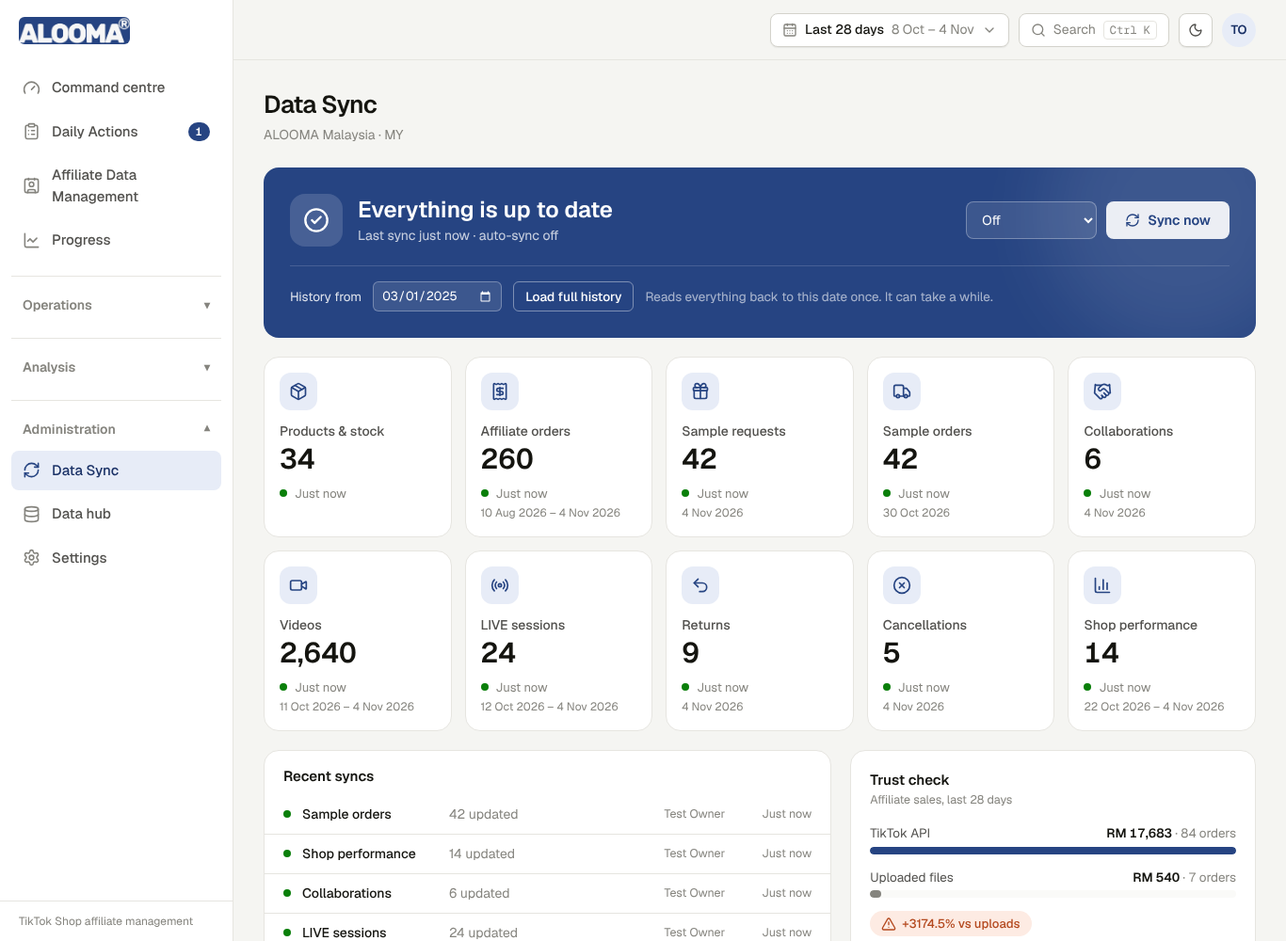
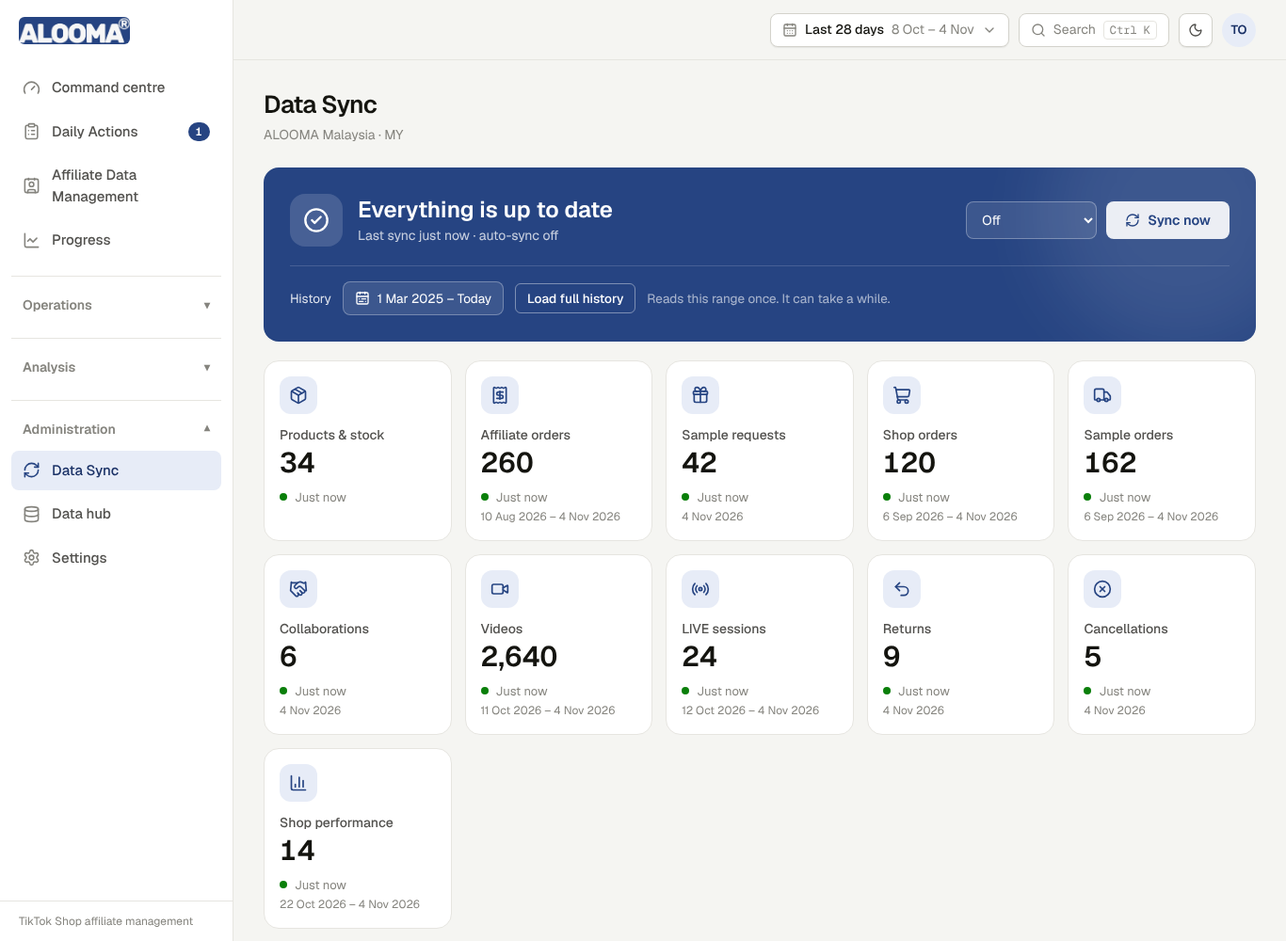
Data Sync: date-range picker for history (quick choices, From/To), finds TikTok's exact history edge, shop orders dataset, full warning notes
Claude-Session: https://claude.ai/code/session_01L6SQd9S1HK5RVe12JHKehy

diff --git a/scripts/test-sync.ts b/scripts/test-sync.ts
@@ -46,6 +46,11 @@ async function main() {
       const at = tok ? Number(tok) : 0;
       return body({ orders: all.slice(at, at + 2), next_page_token: at + 2 < all.length ? String(at + 2) : undefined });
     }
+    if (p === "/order/202309/orders/search") {
+      let all = [0, 2, 40, 75].map((age, i) => ({ id: "SO" + i, status: "COMPLETED", is_sample_order: false, create_time: now - age * 86400, update_time: now, delivery_time: now - age * 86400 + 86400, payment: { total_amount: "55.50", currency: "MYR" }, tracking_number: "T" + i, shipping_provider: "J&T", buyer_email: "secret@example.com", recipient_address: { full_address: "SECRET ROAD" }, line_items: [{ sku_id: "SKU1", product_id: "P1", seller_sku: "S-1", display_status: "COMPLETED", sale_price: "55.50", product_name: "SECRET NAME" }] }));
+      if (reqBody.create_time_ge !== undefined) all = all.filter((o) => o.create_time >= reqBody.create_time_ge && o.create_time < reqBody.create_time_lt);
+      return body({ orders: all });
+    }
     if (p === "/order/202309/orders" && (u.searchParams.get("ids") ?? "").includes("BAD")) return j({ code: 36009003, message: "Internal error. Please try again." });
     if (p === "/order/202309/orders") { const ids = (u.searchParams.get("ids") ?? "").split(","); return body({ orders: ids.map((id) => ({ id, status: id === "O9" ? "DELIVERED" : "COMPLETED", is_sample_order: true, create_time: now - 86400 * 5, update_time: now, delivery_time: now - 86400, paid_time: now - 86400 * 5, tracking_number: "TRK" + id, shipping_provider: "J&T", payment: { total_amount: "0.00", currency: "MYR" }, line_items: [{ sku_id: "SKU1", product_id: "P1", seller_sku: "S-1", display_status: "DELIVERED", package_status: "DELIVERED", tracking_number: "TRK" + id, product_name: "SECRET NAME LEAK" }], buyer_email: "secret@example.com", recipient_address: { full_address: "SECRET ROAD 1" } })) }); }
     if (p.includes("/open_collaborations/search")) return body({ open_collaborations: [{ id: "OC1", status: "ONGOING", content_creator_count: 12, showcase_creator_count: 5, require_seller_approve_creator: false, current_commission: { rate: "1500", start_time: now - 86400, end_time: now + 86400 * 30 }, product: { id: "P1", title: "Pillow", inventory: 40, original_price: { minimum_amount: "20", maximum_amount: "35", currency: "MYR" } } }] });
@@ -68,7 +73,7 @@ async function main() {
 
   // ── run every dataset ──
   const res = await runAll("manual", null, deps);
-  check("03 all ten datasets run and succeed (a rate-limit refusal and a page-size refusal are handled on the way)", res.length === 10 && res.every((r) => r.status === "ok"), JSON.stringify(res.map((r) => [r.dataset, r.status, r.error])));
+  check("03 all eleven datasets run and succeed (a rate-limit refusal and a page-size refusal are handled on the way)", res.length === 11 && res.every((r) => r.status === "ok"), JSON.stringify(res.map((r) => [r.dataset, r.status, r.error])));
   check("04 products and stock: the stock of every warehouse is added up", Number((await q(sql`select stock from tt_skus where sku_id = 'SKU1'`))[0].stock) === 12 && Number((await q(sql`select price from tt_skus where sku_id = 'SKU1'`))[0].price) === 25.5);
   check("05 affiliate orders: the first sync reads the whole history in date windows (7 orders found, across pages and windows), with creator, content and commission", (await count("tt_affiliate_order_lines")) === 7 && (await q(sql`select creator, content_id, est_commission, paid_commission from tt_affiliate_order_lines where order_id = 'A1'`))[0].creator === "amy");
   check("06 sample requests keep creator stats, the order link and the expiry", (await q(sql`select followers, fulfilment_pct, order_id, expires_at is not null as e from tt_sample_requests where id = 'SR1'`))[0].order_id === "O9");
@@ -99,7 +104,7 @@ async function main() {
 
   // ── overview, schedule, trust ──
   const ov = await syncOverview();
-  check("17 the overview lists all datasets with record counts, recent runs with who and how, and the next scheduled time", ov.datasets.length === 10 && ov.datasets.find((d) => d.key === "affiliate_orders")!.records === 7 && ov.runs.length > 8 && ov.runs[0].trigger === "manual" && ov.nextAt !== null, JSON.stringify({ n: ov.runs.length, rec: ov.datasets.find((d) => d.key === "affiliate_orders")!.records, t: ov.runs[0]?.trigger, next: ov.nextAt, set: ov.settings }));
+  check("17 the overview lists all datasets with record counts, recent runs with who and how, and the next scheduled time", ov.datasets.length === 11 && ov.datasets.find((d) => d.key === "affiliate_orders")!.records === 7 && ov.runs.length > 8 && ov.runs[0].trigger === "manual" && ov.nextAt !== null, JSON.stringify({ n: ov.runs.length, rec: ov.datasets.find((d) => d.key === "affiliate_orders")!.records, t: ov.runs[0]?.trigger, next: ov.nextAt, set: ov.settings }));
   const s = { enabled: true, everyMinutes: 60 };
   check("18 the schedule is due when never run or the interval has passed, and never when switched off", isDue(1e12, null, s) && isDue(1e12, 1e12 - 61 * 60000, s) && !isDue(1e12, 1e12 - 59 * 60000, s) && !isDue(1e12, null, { ...s, enabled: false }));
   const tc = await trustCheck();
@@ -121,7 +126,7 @@ async function main() {
   // ── the four additions ──
   const sd = await q(sql`select orders, gmv from tt_shop_daily`);
   check("26 shop performance is read from performance.intervals (it showed 0 before)", sd.length === 1 && Number(sd[0].orders) === 30);
-  const so = await q(sql`select order_id, status, is_sample, tracking_number, is_final, lines::text as lines from tt_orders order by order_id`);
+  const so = await q(sql`select order_id, status, is_sample, tracking_number, is_final, lines::text as lines from tt_orders where order_id = 'O9' order by order_id`);
   check("27 sample orders: only the orders behind sample requests are fetched, with shipping facts and the final flag", so.length === 1 && so[0].order_id === "O9" && so[0].status === "DELIVERED" && so[0].is_sample === true && so[0].tracking_number === "TRKO9" && so[0].is_final === false, JSON.stringify(so));
   check("28 sample orders carry no customer data and no product names", !JSON.stringify(so).includes("SECRET") && !JSON.stringify(so).includes("secret@"));
   const oc = await q(sql`select creators, showcasing, stock, price_max, needs_approval from tt_open_collabs where id = 'OC1'`);
@@ -155,7 +160,7 @@ async function main() {
   videoLimit = monthsAgo;
   const hv = await runDataset("videos", "manual", null, deps);
   const winRows = Number((await q(sql`select count(*)::int n from tt_video_windows where video_id = 'V1'`))[0].n);
-  check("35 the first video sync reads windows back to the start date, keeps each window's figures separately (so lifetime totals add up), and when TikTok refuses a window that is too old it stops there with a note instead of failing", hv.status === "ok" && winRows >= 6 && winRows < 20 && /history stops at/.test(hv.error ?? ""), JSON.stringify([hv, winRows]));
+  check("35 the first video sync reads windows back to the start date, keeps each window's figures separately (so lifetime totals add up), and when TikTok refuses a window that is too old it stops there with a note instead of failing", hv.status === "ok" && winRows >= 6 && winRows < 20 && /only allows this report back to \d{4}-\d{2}-\d{2}/.test(hv.error ?? ""), JSON.stringify([hv, winRows]));
   const life = await q(sql`select sum(gmv)::float8 as g, count(*)::int as n from tt_video_windows where video_id = 'V1'`);
   check("36 a video's lifetime sales are the sum over its windows", Number(life[0].g) === 200 * Number(life[0].n));
   videoLimit = null;
@@ -166,6 +171,18 @@ async function main() {
   check("37 Load full history re-reads every window back to the chosen start date (about 7 windows for 200 days), and a normal run does not", hist.status === "ok" && winsAsked >= 7 && winsAsked <= 12, String(winsAsked));
   check("38 the start date is saved and read back", (await (await import("../src/lib/tiktok/sync")).getSyncSettings()).historyFrom === monthsAgo && todayIso.length === 10);
   await save({ historyFrom: "2025-03-01" });
+  // history range with an end day, and shop orders
+  await q(sql`delete from tt_affiliate_order_lines`); await q(sql`delete from tt_sync_state where dataset = 'affiliate_orders'`);
+  const fiftyAgo = new Date(Date.now() - 50 * 86400_000).toISOString().slice(0, 10);
+  await save({ historyFrom: monthsAgo, historyTo: fiftyAgo });
+  await runDataset("affiliate_orders", "manual", null, { ...deps, backfill: true });
+  check("39 a history range with an end day loads only that range (orders older than 50 days: 2 of 7)", (await count("tt_affiliate_order_lines")) === 2, String(await count("tt_affiliate_order_lines")));
+  await save({ historyFrom: "2025-03-01", historyTo: "" });
+  await q(sql`delete from tt_orders where order_id like 'SO%'`); await q(sql`delete from tt_sync_state where dataset = 'orders'`);
+  const oo = await runDataset("orders", "manual", null, deps);
+  const orows = await q(sql`select order_id, total_amount, lines::text as lines, tracking_number from tt_orders where order_id like 'SO%' order by order_id`);
+  check("40 shop orders sync into the orders table (4 found across windows) with totals and line prices", oo.status === "ok" && orows.length === 4 && Number(orows[0].total_amount) === 55.5 && /55.5/.test(String(orows[0].lines)), JSON.stringify([oo, orows.length]));
+  check("41 shop orders carry no customer data (emails, addresses, product names)", !JSON.stringify(orows).includes("SECRET") && !JSON.stringify(orows).includes("secret@"));
   const { schedulerTick } = await import("../src/lib/tiktok/scheduler");
   const { saveSyncSettings } = await import("../src/lib/tiktok/sync");
   await q(sql`delete from tt_sync_runs`);
@@ -183,7 +200,7 @@ async function main() {
   check("23 datasets run side by side (2 or 3 at once, never more), and results still come back in display order", maxInFlight >= 2 && maxInFlight <= 3 && par.map((r) => r.dataset).join() === DATASETS.map((d) => d.key).join() && par.every((r) => r.status === "ok"), `max ${maxInFlight}`);
   const last = await q(sql`select rows_seen from tt_sync_runs where dataset = 'affiliate_orders' order by id desc limit 1`);
   check("24 each run records how many rows it has read, so the screen can show progress while it runs", Number(last[0].rows_seen) > 0);
-  check("22 every dataset listed on the screen has a table", DATASETS.length === 10);
+  check("22 every dataset listed on the screen has a table", DATASETS.length === 11);
 
   console.log(`\n${pass} passed, ${fail} failed`);
   process.exit(fail ? 1 : 0);

diff --git a/src/lib/tiktok/sync.ts b/src/lib/tiktok/sync.ts
@@ -7,7 +7,7 @@ import { callApi, tiktokConfig, type Fetch, type TikTokConfig } from "./client";
 import * as M from "./map";
 import { str } from "./map";
 
-export type DatasetKey = "products" | "affiliate_orders" | "sample_requests" | "sample_orders" | "open_collabs" | "videos" | "lives" | "returns" | "cancellations" | "shop_daily";
+export type DatasetKey = "products" | "affiliate_orders" | "sample_requests" | "orders" | "sample_orders" | "open_collabs" | "videos" | "lives" | "returns" | "cancellations" | "shop_daily";
 
 export type SyncDeps = { cfg?: TikTokConfig | null; f?: Fetch; sleep?: (ms: number) => Promise<void>; pauseMs?: number; now?: () => Date; /** Read the whole history (back to the "history from" date), not just the recent days. */ backfill?: boolean };
 export type RunResult = { dataset: DatasetKey; status: "ok" | "failed" | "skipped"; pages: number; seen: number; changed: number; error?: string };
@@ -17,6 +17,7 @@ export const DATASETS: { key: DatasetKey; label: string; table: string; icon: st
   { key: "products", label: "Products & stock", table: "tt_skus", icon: "package", what: "SKUs" },
   { key: "affiliate_orders", label: "Affiliate orders", table: "tt_affiliate_order_lines", icon: "receipt", what: "order lines" },
   { key: "sample_requests", label: "Sample requests", table: "tt_sample_requests", icon: "gift", what: "requests" },
+  { key: "orders", label: "Shop orders", table: "tt_orders", icon: "cart", what: "orders" },
   { key: "sample_orders", label: "Sample orders", table: "tt_orders", icon: "truck", what: "orders" },
   { key: "open_collabs", label: "Collaborations", table: "tt_open_collabs", icon: "handshake", what: "offers" },
   { key: "videos", label: "Videos", table: "tt_videos", icon: "video", what: "videos" },
@@ -122,7 +123,7 @@ const pick = (...names: string[]) => (d: Record<string, unknown>) => {
   return firstList(d);
 };
 
-type Ctx = { deps: SyncDeps; full: boolean; watermark: Date | null; runId: number; /** Reading the whole history (first sync, or the Load full history button). */ backfill: boolean; historyFrom: string };
+type Ctx = { deps: SyncDeps; full: boolean; watermark: Date | null; runId: number; /** Reading the whole history (first sync, or the Load full history button). */ backfill: boolean; historyFrom: string; historyTo: string };
 type Counter = { pages: number; seen: number; changed: number; skipped?: number; skipExamples?: string[]; skipWhy?: string; /** Something worth telling the person, e.g. where TikTok's history stops. */ note?: string };
 /** Lets the screen show "1,200 so far" while a dataset runs. */
 const progress = (ctx: Ctx, c: Counter) => rows(sql`update tt_sync_runs set pages = ${c.pages}, rows_seen = ${c.seen}, rows_changed = ${c.changed} where id = ${ctx.runId}`);
@@ -162,7 +163,7 @@ async function sequential(spec: WSpec, ctx: Ctx, c: Counter) {
  */
 async function windowed(spec: WSpec, ctx: Ctx, c: Counter) {
   const nowS = Math.floor((ctx.deps.now?.() ?? new Date()).getTime() / 1000);
-  const hiAll = nowS + 3600;
+  const hiAll = ctx.backfill && ctx.historyTo ? Math.floor(Date.parse(ctx.historyTo + "T00:00:00Z") / 1000) + DAY : nowS + 3600;
   const body = (lo: number, hi: number) => ({ create_time_ge: lo, create_time_lt: hi });
   const scan = async (lo: number, hi: number): Promise<number> => {
     let n = 0;
@@ -207,13 +208,21 @@ function backWindows(end: string, floor: string, days: number): { start: string;
  * normal sync; with a backfill the older ones follow. If TikTok refuses a window because it is too old, the history stops there and the note says so.
  */
 async function byWindows(ctx: Ctx, c: Counter, days: number, recentDays: number, each: (w: { start: string; end: string }) => Promise<void>) {
-  const end = addDaysISO(todayKL(), 1);
+  const end = ctx.backfill && ctx.historyTo ? addDaysISO(ctx.historyTo, 1) : addDaysISO(todayKL(), 1);
   if (!ctx.backfill && ctx.watermark) { await each(backWindows(end, addDaysISO(end, -recentDays), recentDays)[0]); return; }
   const wins = backWindows(end, ctx.backfill ? ctx.historyFrom : addDaysISO(end, -3 * days), days);
   for (let i = 0; i < wins.length; i++) {
     try { await each(wins[i]); } catch (e) {
       if (i === 0) throw e; // the newest window must work
-      c.note = `history stops at ${wins[i].end}: ${(e instanceof Error ? e.message : "").replace(/^TikTok said no \(\d+\): /, "").slice(0, 90)}`;
+      // TikTok refused this window as too old. Try again from later start days (a week at a time) to find the exact edge and keep the days it allows.
+      const w = wins[i];
+      let edge: string | null = null;
+      for (let off = 7; off < days && !edge; off += 7) {
+        const start = addDaysISO(w.start, off);
+        if (start >= w.end) break;
+        try { await each({ start, end: w.end }); edge = start; } catch { /* still too old */ }
+      }
+      c.note = `TikTok only allows this report back to ${edge ?? w.end} (${(e instanceof Error ? e.message : "").replace(/^TikTok said no \(\d+\): /, "").slice(0, 120)})`;
       return;
     }
   }
@@ -230,6 +239,7 @@ async function inGroups<T>(items: T[], size: number, parallel: number, job: (gro
 const RUNNERS: Record<DatasetKey, (ctx: Ctx, c: Counter) => Promise<void>> = {
   products: (ctx, c) => simple("/product/202309/products/search", { method: "POST", body: {}, sizes: [100, 50, 20, 10], list: pick("products") }, "tt_skus", M.skus, ctx, c),
   sample_requests: (ctx, c) => simple("/affiliate_seller/202409/sample_applications/search", { method: "POST", body: {}, sizes: [100, 50, 20, 10], list: pick("sample_applications", "applications") }, "tt_sample_requests", M.sampleRequest, ctx, c),
+  orders: (ctx, c) => windowed({ path: "/order/202309/orders/search", sizes: [100, 50, 20, 10], list: pick("orders"), timeKey: "create_time", table: "tt_orders", mapRow: M.order }, ctx, c),
   open_collabs: (ctx, c) => simple("/affiliate_seller/202409/open_collaborations/search", { method: "POST", body: {}, sizes: [100, 50, 20, 10], list: pick("open_collaborations", "collaborations") }, "tt_open_collabs", M.openCollab, ctx, c),
   returns: (ctx, c) => windowed({ path: "/return_refund/202309/returns/search", sizes: [100, 50, 20, 10], list: pick("return_orders", "returns"), timeKey: "create_time", table: "tt_returns", mapRow: M.returnRow }, ctx, c),
   cancellations: (ctx, c) => windowed({ path: "/return_refund/202309/cancellations/search", sizes: [100, 50, 20, 10], list: pick("cancellations"), timeKey: "create_time", table: "tt_cancellations", mapRow: M.cancellation }, ctx, c),
@@ -296,7 +306,7 @@ export async function runDataset(key: DatasetKey, trigger: "manual" | "schedule"
   const full = !watermark || now.getTime() - watermark.getTime() > 24 * 3600_000;
   const c: Counter = { pages: 0, seen: 0, changed: 0 };
   try {
-    await RUNNERS[key]({ deps: { ...deps, cfg }, full, watermark, runId: run.id, backfill: !!deps.backfill || !watermark, historyFrom: (await getSyncSettings()).historyFrom }, c);
+    await RUNNERS[key]({ deps: { ...deps, cfg }, full, watermark, runId: run.id, backfill: !!deps.backfill || !watermark, ...(await (async () => { const h = await getSyncSettings(); return { historyFrom: h.historyFrom, historyTo: h.historyTo }; })()) }, c);
     const [cnt] = await rows<{ n: number }>(sql`select count(*)::int as n from ${sql.raw(ds.table)}`);
     const note = [c.skipped ? `${c.skipped.toLocaleString("en-MY")} skipped (TikTok would not return them${c.skipWhy ? `: ${c.skipWhy}` : ""}; e.g. ${(c.skipExamples ?? []).join(", ")})` : null, c.note ?? null].filter(Boolean).join(" · ") || null;
     await rows(sql`update tt_sync_runs set status = 'ok', finished_at = now(), pages = ${c.pages}, rows_seen = ${c.seen}, rows_changed = ${c.changed}, error = ${note} where id = ${run.id}`);
@@ -324,7 +334,7 @@ export async function runAll(trigger: "manual" | "schedule", userId: string | nu
   const out: RunResult[] = [];
   try {
     // The biggest datasets start first; up to POOL run side by side. Results are returned in the display order.
-    const order: DatasetKey[] = ["affiliate_orders", "videos", "sample_requests", "returns", "cancellations", "products", "lives", "open_collabs", "shop_daily"];
+    const order: DatasetKey[] = ["affiliate_orders", "orders", "videos", "sample_requests", "returns", "cancellations", "products", "lives", "open_collabs", "shop_daily"];
     const done = new Map<DatasetKey, RunResult>();
     let next = 0;
     await Promise.all(Array.from({ length: Math.min(POOL, order.length) }, async () => {
@@ -351,7 +361,7 @@ export async function clearInterrupted(reason = "Interrupted – the app was res
 }
 
 // ───────── settings and schedule ─────────
-export type SyncSettings = { enabled: boolean; everyMinutes: number; /** The first day to load when reading the whole history (YYYY-MM-DD). */ historyFrom: string };
+export type SyncSettings = { enabled: boolean; everyMinutes: number; /** The first and last day to load when reading history (YYYY-MM-DD). historyTo "" means up to today. */ historyFrom: string; historyTo: string };
 export const DEFAULT_HISTORY_FROM = "2025-03-01";
 export const SYNC_CHOICES = [30, 60, 180, 720, 1440] as const;
 const SKEY = "tiktok_sync";
@@ -361,7 +371,7 @@ const DATE_COL: Record<string, string> = { tt_affiliate_order_lines: "created_at
 export async function getSyncSettings(): Promise<SyncSettings> {
   const [r] = await rows<{ value: Partial<SyncSettings> }>(sql`select value from settings where key = ${SKEY}`);
   const v = r?.value ?? {};
-  return { enabled: v.enabled !== false, everyMinutes: (SYNC_CHOICES as readonly number[]).includes(Number(v.everyMinutes)) ? Number(v.everyMinutes) : 60, historyFrom: /^\d{4}-\d{2}-\d{2}$/.test(String(v.historyFrom)) ? String(v.historyFrom) : DEFAULT_HISTORY_FROM };
+  return { enabled: v.enabled !== false, everyMinutes: (SYNC_CHOICES as readonly number[]).includes(Number(v.everyMinutes)) ? Number(v.everyMinutes) : 60, historyFrom: /^\d{4}-\d{2}-\d{2}$/.test(String(v.historyFrom)) ? String(v.historyFrom) : DEFAULT_HISTORY_FROM, historyTo: /^\d{4}-\d{2}-\d{2}$/.test(String(v.historyTo)) ? String(v.historyTo) : "" };
 }
 export async function saveSyncSettings(patch: Partial<SyncSettings>): Promise<void> {
   const s = { ...(await getSyncSettings()), ...patch };

diff --git a/src/components/sync/sync-board.tsx b/src/components/sync/sync-board.tsx
@@ -2,12 +2,13 @@
 
 import { useCallback, useEffect, useRef, useState, useTransition } from "react";
 import Link from "next/link";
-import { AlertTriangle, BarChart3, CheckCircle2, Gift, Handshake, Loader2, Package, Radio, Receipt, RefreshCw, Truck, Undo2, Video, XCircle } from "lucide-react";
-import { resetStuckSync, setHistoryFrom, setSyncSchedule } from "@/app/actions/sync";
+import { AlertTriangle, BarChart3, CheckCircle2, Gift, Handshake, Loader2, Package, Radio, Receipt, RefreshCw, ShoppingCart, Truck, Undo2, Video, XCircle } from "lucide-react";
+import { resetStuckSync, setHistoryRange, setSyncSchedule } from "@/app/actions/sync";
+import { HistoryRange } from "./history-range";
 import { cn } from "@/lib/utils";
 import type { SyncOverview, TrustCheck } from "@/lib/tiktok/sync";
 
-const ICON: Record<string, React.ComponentType<{ className?: string }>> = { package: Package, receipt: Receipt, gift: Gift, video: Video, radio: Radio, undo: Undo2, x: XCircle, chart: BarChart3, truck: Truck, handshake: Handshake };
+const ICON: Record<string, React.ComponentType<{ className?: string }>> = { package: Package, receipt: Receipt, gift: Gift, video: Video, radio: Radio, undo: Undo2, x: XCircle, chart: BarChart3, truck: Truck, cart: ShoppingCart, handshake: Handshake };
 const EVERY = [{ v: 0, l: "Off" }, { v: 30, l: "Every 30 min" }, { v: 60, l: "Every hour" }, { v: 180, l: "Every 3 hours" }, { v: 720, l: "Every 12 hours" }, { v: 1440, l: "Daily" }];
 
 function ago(iso: string | null, now: number): string {
@@ -100,8 +101,8 @@ export function SyncBoard({ initial, trust, connected, canAdmin, serverNow }: { 
   return (
     <div className="space-y-5">
       {/* status */}
-      <section data-testid="sync-hero" data-state={state} className="relative overflow-hidden rounded-2xl bg-brand p-6 text-white sm:p-7">
-        <div aria-hidden className="pointer-events-none absolute -top-24 -right-16 size-72 rounded-full bg-white/10 blur-2xl" />
+      <section data-testid="sync-hero" data-state={state} className="relative rounded-2xl bg-brand p-6 text-white sm:p-7">
+        <div aria-hidden className="pointer-events-none absolute inset-0 overflow-hidden rounded-2xl"><div className="absolute -top-24 -right-16 size-72 rounded-full bg-white/10 blur-2xl" /></div>
         <div className="relative flex flex-wrap items-center justify-between gap-5">
           <div className="flex items-center gap-4">
             <span className={cn("grid size-14 shrink-0 place-items-center rounded-2xl bg-white/15", busy && "animate-pulse")}>
@@ -144,12 +145,10 @@ export function SyncBoard({ initial, trust, connected, canAdmin, serverNow }: { 
           </div>
         </div>
         <div className="relative mt-5 flex flex-wrap items-center gap-x-3 gap-y-2 border-t border-white/15 pt-4 text-[13.5px] text-white/85">
-          <span>History from</span>
-          {canAdmin ? (
-            <input type="date" aria-label="History from" defaultValue={ov.settings.historyFrom} onBlur={(e) => { const v = e.target.value; if (v && v !== ov.settings.historyFrom) start(async () => { const r = await setHistoryFrom(v); if (!r.ok) setErr(r.error ?? "Could not save the date."); await refresh(); }); }} className="h-8 rounded-md border border-white/30 bg-white/10 px-2 text-[13px] text-white [color-scheme:dark]" />
-          ) : <b>{dmy(ov.settings.historyFrom)}</b>}
+          <span>History</span>
+          <HistoryRange from={ov.settings.historyFrom} to={ov.settings.historyTo} canEdit={canAdmin} onSave={(f, t) => start(async () => { const r = await setHistoryRange(f, t); if (!r.ok) setErr(r.error ?? "Could not save the range."); await refresh(); })} />
           <button data-testid="load-history" disabled={busy} onClick={() => run(undefined, true)} className="inline-flex h-8 items-center gap-1.5 rounded-md border border-white/40 px-3 font-medium text-white hover:bg-white/10 disabled:opacity-50">Load full history</button>
-          <span className="text-white/60">Reads everything back to this date once. It can take a while.</span>
+          <span className="text-white/60">Reads this range once. It can take a while.</span>
         </div>
         {err && <p role="alert" className="relative mt-4 rounded-lg bg-white/15 px-3 py-2 text-[13.5px]">{err}</p>}
       </section>
@@ -175,7 +174,7 @@ export function SyncBoard({ initial, trust, connected, canAdmin, serverNow }: { 
               </div>
               {d.oldest && <p className="mt-0.5 text-[12px] text-ink-3" data-testid={`span-${d.key}`}>{span(d.oldest, d.newest)}</p>}
               {d.lastError && <p className="mt-1 line-clamp-2 text-[12px] leading-snug text-critical">{d.lastError}</p>}
-              {!d.lastError && d.note && <p className="mt-1 line-clamp-3 text-[12px] leading-snug text-warn" title={d.note} data-testid={`note-${d.key}`}>{d.note}</p>}
+              {!d.lastError && d.note && <p className="mt-1 line-clamp-6 text-[12px] leading-snug text-warn" title={d.note} data-testid={`note-${d.key}`}>{d.note}</p>}
             </article>
           );
         })}

diff --git a/src/components/sync/history-range.tsx b/src/components/sync/history-range.tsx
@@ -1,0 +1,59 @@
+"use client";
+
+import { useEffect, useRef, useState } from "react";
+import { CalendarRange, Check } from "lucide-react";
+import { cn } from "@/lib/utils";
+
+const MON = ["Jan", "Feb", "Mar", "Apr", "May", "Jun", "Jul", "Aug", "Sep", "Oct", "Nov", "Dec"];
+const label = (iso: string) => { const [y, m, d] = iso.split("-").map(Number); return `${d} ${MON[m - 1]} ${y}`; };
+const iso = (d: Date) => d.toISOString().slice(0, 10);
+const back = (months: number) => { const d = new Date(); d.setUTCMonth(d.getUTCMonth() - months); return iso(d); };
+
+/** A date-range picker for the history to load: quick choices, or any From and To day ("up to today" by default). */
+export function HistoryRange({ from, to, canEdit, onSave }: { from: string; to: string; canEdit: boolean; onSave: (from: string, to: string) => void }) {
+  const [open, setOpen] = useState(false);
+  const [f, setF] = useState(from);
+  const [t, setT] = useState(to);
+  const box = useRef<HTMLDivElement>(null);
+  const today = iso(new Date());
+  useEffect(() => {
+    if (!open) return;
+    const close = (e: MouseEvent) => { if (box.current && !box.current.contains(e.target as Node)) setOpen(false); };
+    document.addEventListener("mousedown", close);
+    return () => document.removeEventListener("mousedown", close);
+  }, [open]);
+  const presets: { l: string; from: string; to: string }[] = [
+    { l: "Last 3 months", from: back(3), to: "" },
+    { l: "Last 6 months", from: back(6), to: "" },
+    { l: "Last 12 months", from: back(12), to: "" },
+    { l: "Since 1 Mar 2025", from: "2025-03-01", to: "" },
+    { l: "Since 1 Jan 2024", from: "2024-01-01", to: "" },
+  ];
+  const valid = f && f >= "2023-01-01" && f <= today && (!t || (t >= f && t <= today));
+  return (
+    <div ref={box} className="relative">
+      <button type="button" aria-label="History range" aria-expanded={open} onClick={() => canEdit && setOpen((o) => !o)} className={cn("inline-flex h-9 items-center gap-2 rounded-lg border border-white/30 bg-white/10 px-3 text-[13.5px] text-white", canEdit ? "hover:bg-white/15" : "cursor-default")} data-testid="history-range">
+        <CalendarRange className="size-4" /> {label(from)} – {to ? label(to) : "Today"}
+      </button>
+      {open && (
+        <div role="dialog" aria-label="Choose history range" className="absolute top-11 left-0 z-30 w-[320px] rounded-xl border border-line-strong bg-surface p-4 text-ink shadow-lg">
+          <p className="mb-2 text-[12px] font-medium tracking-wide text-ink-3 uppercase">Quick choice</p>
+          <div className="flex flex-wrap gap-1.5">
+            {presets.map((p) => (
+              <button key={p.l} type="button" onClick={() => { setF(p.from); setT(p.to); }} className={cn("rounded-full border px-3 py-1 text-[13px]", f === p.from && t === p.to ? "border-brand bg-brand-soft text-brand" : "border-line-strong hover:bg-surface-2")}>{p.l}</button>
+            ))}
+          </div>
+          <div className="mt-4 grid grid-cols-2 gap-3">
+            <label className="text-[12.5px] text-ink-3">From<input type="date" value={f} min="2023-01-01" max={today} onChange={(e) => setF(e.target.value)} className="mt-1 h-9 w-full rounded-lg border border-line-strong bg-surface px-2 text-[14px] text-ink" /></label>
+            <label className="text-[12.5px] text-ink-3">To<input type="date" value={t} min={f || undefined} max={today} onChange={(e) => setT(e.target.value)} className="mt-1 h-9 w-full rounded-lg border border-line-strong bg-surface px-2 text-[14px] text-ink" /></label>
+          </div>
+          <button type="button" onClick={() => setT("")} className={cn("mt-2 inline-flex items-center gap-1.5 text-[13px]", t === "" ? "font-medium text-brand" : "text-ink-3 hover:text-ink")}><Check className={cn("size-3.5", t !== "" && "opacity-0")} /> Up to today</button>
+          <div className="mt-4 flex justify-end gap-2">
+            <button type="button" onClick={() => setOpen(false)} className="h-9 rounded-lg px-3 text-[14px] text-ink-2 hover:bg-surface-2">Cancel</button>
+            <button type="button" disabled={!valid} onClick={() => { onSave(f, t); setOpen(false); }} className="h-9 rounded-lg bg-brand px-4 text-[14px] font-medium text-white hover:opacity-90 disabled:opacity-50">Apply</button>
+          </div>
+        </div>
+      )}
+    </div>
+  );
+}

diff --git a/src/app/actions/sync.ts b/src/app/actions/sync.ts
@@ -21,11 +21,13 @@ export async function resetStuckSync(): Promise<{ cleared: number }> {
   return { cleared };
 }
 
-/** The first day to load when reading the whole history. */
-export async function setHistoryFrom(day: string): Promise<{ ok: boolean; error?: string }> {
+/** The days to load when reading history: from the first day to the last (empty = up to today). */
+export async function setHistoryRange(from: string, to: string): Promise<{ ok: boolean; error?: string }> {
   await requireUser("admin");
-  if (!/^\d{4}-\d{2}-\d{2}$/.test(day) || day < "2024-01-01" || day > new Date().toISOString().slice(0, 10)) return { ok: false, error: "Choose a date from 2024 up to today." };
-  await saveSyncSettings({ historyFrom: day });
+  const day = /^\d{4}-\d{2}-\d{2}$/;
+  const today = new Date().toISOString().slice(0, 10);
+  if (!day.test(from) || from < "2023-01-01" || from > today || (to && (!day.test(to) || to < from || to > today))) return { ok: false, error: "Choose days from 2023 up to today, with To after From." };
+  await saveSyncSettings({ historyFrom: from, historyTo: to });
   revalidatePath("/sync");
   return { ok: true };
 }

diff --git a/src/lib/tiktok/map.ts b/src/lib/tiktok/map.ts
@@ -204,7 +204,7 @@ export function order(o: R): Row {
     currency: str(obj(o.payment).currency),
     tracking_number: str(o.tracking_number),
     shipping_provider: str(o.shipping_provider),
-    lines: JSON.stringify(arr(o.line_items).map((l) => ({ sku_id: str(l.sku_id), product_id: str(l.product_id), seller_sku: str(l.seller_sku), status: str(l.display_status), package_status: str(l.package_status), tracking_number: str(l.tracking_number) }))),
+    lines: JSON.stringify(arr(o.line_items).map((l) => ({ sku_id: str(l.sku_id), product_id: str(l.product_id), seller_sku: str(l.seller_sku), status: str(l.display_status), package_status: str(l.package_status), tracking_number: str(l.tracking_number), sale_price: num(l.sale_price) }))),
     is_final: status ? FINAL_ORDER.has(status) : false,
   };
 }

diff --git a/docs/TIKTOK-API.md b/docs/TIKTOK-API.md
@@ -31,7 +31,7 @@ Lets the app read orders, products, returns and shipping straight from TikTok (r
 If **Orders** returns fields such as the creator and the content/video ID, affiliate orders can sync without uploads. If not, keep uploading the *Affiliate orders* file and use the API for orders, status, products, returns and shipping.
 
 ## Data Sync (module 0)
-**Administration → Data Sync** pulls ten datasets from TikTok into the `tt_*` tables: products and stock, affiliate orders, sample requests, **sample orders** (shipping status and delivery dates of the orders behind sample requests; no customer data), **collaborations** (commission offered, stock, creators joined), videos, LIVE sessions, returns, cancellations and daily shop performance.
+**Administration → Data Sync** pulls ten datasets from TikTok into the `tt_*` tables: products and stock, affiliate orders, sample requests, **shop orders** (every order, reduced to status, dates, totals and line prices; no customer data), **sample orders** (shipping status and delivery dates of the orders behind sample requests; no customer data), **collaborations** (commission offered, stock, creators joined), videos, LIVE sessions, returns, cancellations and daily shop performance.
 
 | Point | How it works |
 |---|---|
@@ -39,7 +39,7 @@ If **Orders** returns fields such as the creator and the content/video ID, affil
 | Sync now | Any manager can press it, for everything or for one dataset |
 | Safe | Rows are inserted or updated; identical rows are left alone, so running twice never duplicates. TikTok data is never written by staff, and our own data is never overwritten. |
 | Speed | The first sync reads history in 30-day date windows, three at a time, and stops after three empty windows. Later syncs read only the last few days (a full re-read happens once a day to catch status changes). Before using date windows the sync checks that TikTok really applies the filter; if TikTok ignores or rejects it, a slower safe scan is used instead. Up to three datasets run side by side. |
-| History | **Load full history** (Data Sync, with a "History from" date, default 1 Mar 2025) reads every window back to that date: 30-day windows for affiliate orders, returns and cancellations; 28-day windows for videos, LIVE and shop performance. Video figures are kept per window so lifetime totals add up. If TikTok refuses a window as too old, the run stops there, keeps what it has and says where. The very first sync does this automatically. |
+| History | **Load full history** (Data Sync, with a date-range picker: quick choices or any From and To day, default 1 Mar 2025 to today) reads every window back to that date: 30-day windows for affiliate orders, returns and cancellations; 28-day windows for videos, LIVE and shop performance. Video figures are kept per window so lifetime totals add up. If TikTok refuses a window as too old, the sync finds the exact oldest day it allows (analytics reports allow roughly the last 6 months), keeps everything up to that edge and says where. The very first sync does this automatically. |
 | Rate limits | The sync paces itself, waits when TikTok says "too many requests", and uses a smaller page size if TikTok refuses one |
 | Failures | A failed dataset is shown in red with TikTok's message; the others still run |
 | Trust check | Compares the last 28 days of affiliate sales from the API with the uploaded files so you can see they agree before you stop uploading |
